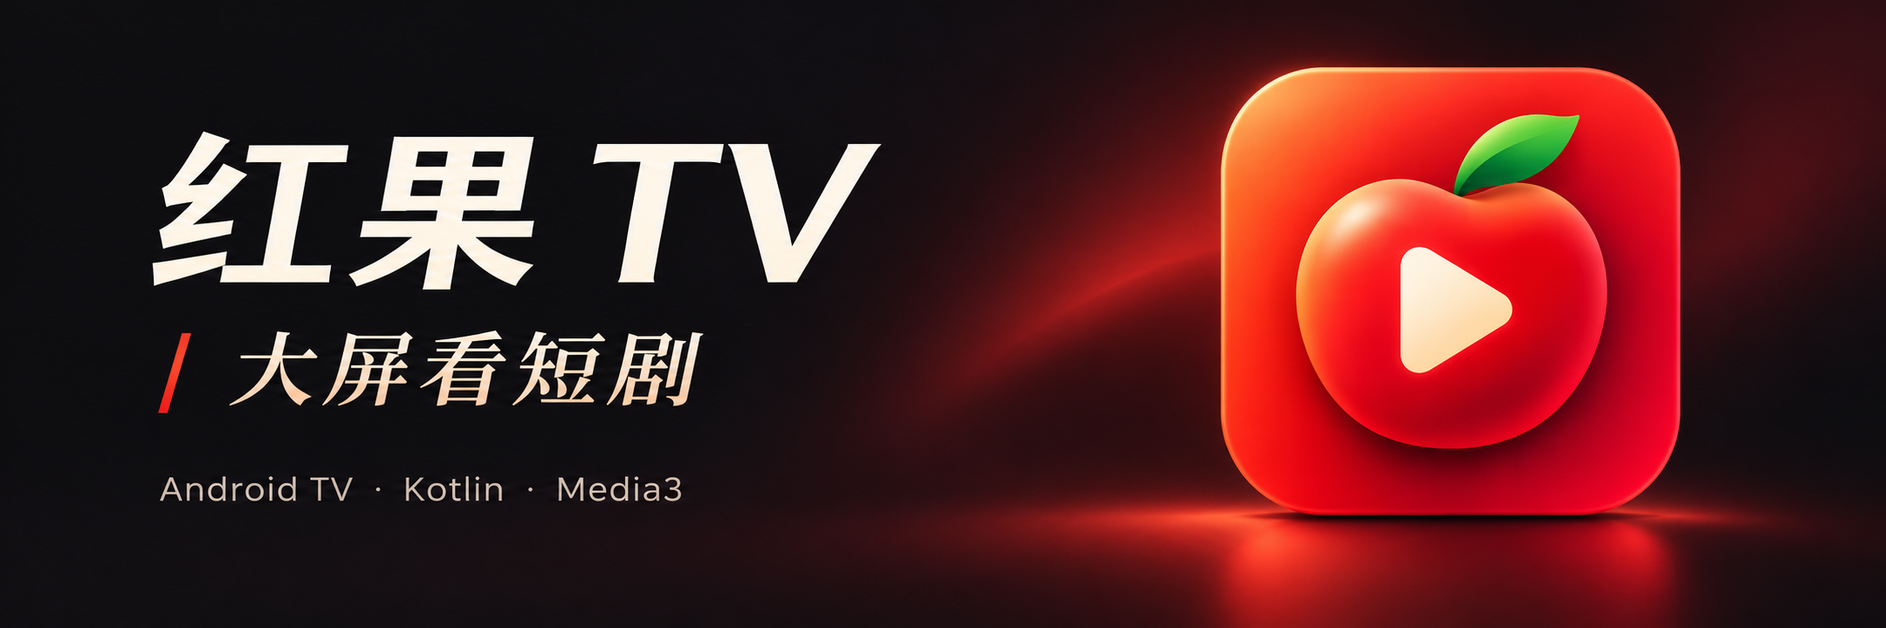
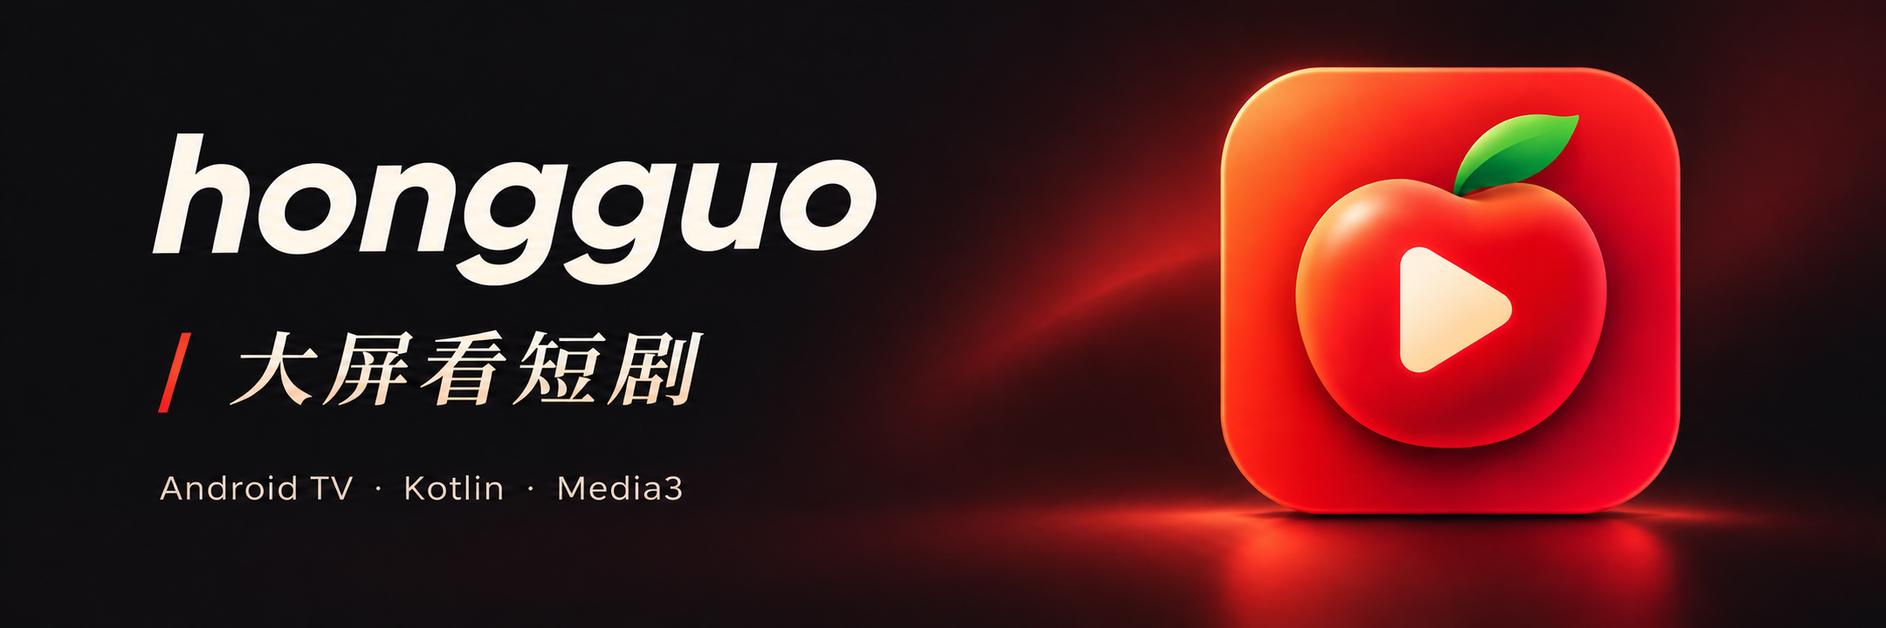
统一公开文档与展示图片的hongguo名称

diff --git a/kotlin-tv/README.md b/kotlin-tv/README.md
@@ -1,10 +1,10 @@
-# 红果 TV 原生独立版
+# hongguo 原生独立版
 
 这是独立的 **Kotlin + Android 原生 View + Media3** 工程，最低 Android 8.0 / API 26。安装一个 APK，联网后可直接浏览和播放，无需部署 Node、Docker 或填写服务器地址。
 
 [中文安装与使用指南](../docs/INSTALL.zh-CN.md) · [兼容性说明](../docs/COMPATIBILITY.zh-CN.md) · [界面截图](../README.md#界面展示)
 
-- 应用名称：红果 TV
+- 项目展示名称：hongguo；已发布 APK 的系统显示名称可能不同。
 - 个人分发包名：`com.hongguotv.nativeapp.playbackfix`，沿用当前测试设备数据。历史正式包 `com.hongguotv.nativeapp` 与旧 `com.hongguotv` 独立。
 - 收藏和历史独立保存在本机，不自动迁移旧版数据。
 - APK 不含 JNI 库，可由 Android 在 ARM32、ARM64、x86、x86_64 上运行；视频解码能力依赖设备。
@@ -69,7 +69,7 @@
 
 ### 本地测试版 0.9.1
 
-- 沿用播放接口修复及红果 TV 图标；逐档隔离损坏资源，按设备解码能力选流，解码失败仅进行一次兼容资源切换。
+- 沿用播放接口修复及 hongguo 图标；逐档隔离损坏资源，按设备解码能力选流，解码失败仅进行一次兼容资源切换。
 - 临时 720P 重试仅作用于本集，续播按分集 ID 保留位置；修复超过 2 GiB 的视频读取长度溢出。
 - 手机输入服务绑定选定地址并限制请求总时长；坏封面验证后重新获取，保存失败显示提示和重试入口。
 - 开发包隔离正式更新渠道及安装权限，采用独立包名和开发签名。真机安装及运行结果以本地交付记录为准。
@@ -117,7 +117,7 @@
 ### 0.5.0 新增
 
 - 定时停止：播放菜单选择 15 / 30 / 60 / 90 分钟后停止，或本集 / 再播完 3 / 5 集后停止。到点暂停、保存进度并取消自动重试，片尾先判断定时再自动连播。分钟按实际经过时间计时（包含暂停），集数在片尾计数，手动切集不扣次数。仅本次观看有效，退出播放器或切到后台会取消。
-- 手机备份与恢复：设置中扫码，用同一局域网内的手机浏览器下载 JSON，或上传已有备份。电视预览并确认后才合并收藏、观看位置、已看状态及搜索历史；已有收藏优先，观看位置以较新记录为准。默认保留电视设置，可勾选恢复备份内的清晰度、倍速、自动连播、内容类型与画面模式。收藏最多 500 部、历史最近 200 条、搜索 20 条，文件最多 2 MB。它用于本原生版设备之间迁移，与红果账号无关。
+- 手机备份与恢复：设置中扫码，用同一局域网内的手机浏览器下载 JSON，或上传已有备份。电视预览并确认后才合并收藏、观看位置、已看状态及搜索历史；已有收藏优先，观看位置以较新记录为准。默认保留电视设置，可勾选恢复备份内的清晰度、倍速、自动连播、内容类型与画面模式。收藏最多 500 部、历史最近 200 条、搜索 20 条，文件最多 2 MB。它用于本原生版设备之间迁移，与 hongguo 账号无关。
 - 全局画面模式：完整画面 / 等比铺满 / 拉伸铺满，播放中立即切换并保存；完整画面为默认。等比铺满可能裁切字幕，拉伸会改变比例，选择时有说明。
 - 系统媒体控制：前台播放时提供剧名、集数、时长和状态，接受系统播放 / 暂停 / 上下集 / 定位 / 停止；退出或进入后台撤销媒体会话。加载视频期间暂停，以及选集面板中收到暂停，都不会在后续加载或关闭弹窗后误播放。
 
@@ -148,7 +148,7 @@
 
 正式版使用同一发布签名，可覆盖安装 0.2.0 / 0.2.1 并保留收藏、观看记录与设置。Debug APK 使用开发签名，不能覆盖不同签名的正式安装包。
 
-**红果账号同步尚未实现**：你使用抖音账号登录红果，仍需要可验证的红果授权、账号映射和收藏/进度读写接口。当前收藏与观看记录继续保存在本机。调查依据和接入条件见 [账号同步调查](../docs/ACCOUNT_SYNC.md)。应用内二维码均不是红果登录入口。
+**hongguo 账号同步尚未实现**：你使用抖音账号登录 hongguo，仍需要可验证的 hongguo 授权、账号映射和收藏/进度读写接口。当前收藏与观看记录继续保存在本机。调查依据和接入条件见 [账号同步调查](../docs/ACCOUNT_SYNC.md)。应用内二维码均不是 hongguo 登录入口。
 
 本版交付与复测见 [0.3.0 交付记录](RELEASE_0.3.0.md)。
 
@@ -162,7 +162,7 @@
 ## 使用
 
 1. 从[本仓库 Releases](https://github.com/BeatsAD/hongguoTV/releases/latest) 下载个人分发 APK，首次拷贝到电视安装，或通过 `adb install -r APK文件路径` 覆盖安装。同包名、同签名且版本更低的安装可保留数据升级；之后在设置 → 版本与更新中完成更新。
-2. 在电视应用列表打开「红果 TV」，进入首页或搜索。
+2. 安装后从电视应用列表打开客户端，进入首页或搜索。
 3. 首页续播和最近观看确认即播放；发现新剧时确认进入详情，选择开始观看。设置中可选择 480P / 720P / 1080P 上限和是否自动连播。
 
 播放中：确认键暂停/播放；左右跳转 10 秒，长按连续跳转；向下直接打开选集，向上或菜单键打开播放、上下集、倍速等更多操作。返回键先关闭选集或收起进度条与菜单，再退出播放；从列表直接续播时回原列表，从详情开始播放时回详情。列表恢复原卡片和页码。

diff --git a/docs/research/2026-09-21-hongguo-open-source.md b/docs/research/2026-09-21-hongguo-open-source.md
@@ -1,25 +1,25 @@
-# 红果接口开源项目调研
+# hongguo 接口开源项目调研
 
 调研日期：2026-09-21。目标：为 Android TV 客户端寻找现成的搜索、剧集详情与播放接口实现。
 
 ## 结论与验证范围
 
-找到了直接请求红果/番茄平台域名的公开源码，可以作为接口研究起点。优先验证 `woshishiq1/drpys` 的 `红果果[短].js` 和 `zhenyong97/hongguo-downloader` 的 `src/native/hongguo.js`。
+找到了直接请求 hongguo/番茄平台域名的公开源码，可以作为接口研究起点。优先验证 `woshishiq1/drpys` 的 hongguo 内容脚本（见下方链接）和 `zhenyong97/hongguo-downloader` 的 `src/native/hongguo.js`。
 
-本次通过 GitHub API 核对仓库目录、关键源码、许可证元数据和关键文件最近提交；未运行下载器、签名或视频处理代码，未登录红果，也未验证真实视频播放。下列“实现”均指源码中存在对应逻辑，不代表接口目前调用成功或长期稳定。
+本次通过 GitHub API 核对仓库目录、关键源码、许可证元数据和关键文件最近提交；未运行下载器、签名或视频处理代码，未登录 hongguo，也未验证真实视频播放。下列“实现”均指源码中存在对应逻辑，不代表接口目前调用成功或长期稳定。
 
 ## 主要候选
 
 ### 1. woshishiq1/drpys：优先参考 TV 源的完整调用流程
 
 - [仓库](https://github.com/woshishiq1/drpys)
-- [关键源码：红果果[短].js](https://github.com/woshishiq1/drpys/blob/22261adfa31435e3b3ef5a730b8a2a75bcaf1715/spider/js/%E7%BA%A2%E6%9E%9C%E6%9E%9C%5B%E7%9F%AD%5D.js)
+- [关键源码：hongguo 内容脚本](https://github.com/woshishiq1/drpys/blob/22261adfa31435e3b3ef5a730b8a2a75bcaf1715/spider/js/%E7%BA%A2%E6%9E%9C%E6%9E%9C%5B%E7%9F%AD%5D.js)
 - 关键文件最近提交：2026-09-14；GitHub 识别的仓库许可证：GPL-3.0。
 - 官网数据用于分类、榜单和详情；App 搜索失败时回退官网搜索。
 - 包含视频信息请求、请求签名、清晰度选择及流式播放代理逻辑，依赖 Node 的 crypto、Buffer、axios 和 drpys 运行时。
 - 核心入口：`appSearchPage()`、`requestVideoModel()`、`fetchVideoInfo()`，以及规则对象中的“二级”“搜索”“lazy”“proxy_rule”。
 - 源码存在固定设备参数；其有效性和运行时依赖需要实测。
-- 注意区别：同仓库的 `红果短剧[短].js` 另依赖本地 `hongguo-bridge` 服务，不能只复制该文件就认为播放能力完整。`红果果[短].js` 则将相应处理逻辑放在源文件内。
+- 注意区别：同仓库的另一桥接脚本（文件名 URL 编码为 `%E7%BA%A2%E6%9E%9C%E7%9F%AD%E5%89%A7%5B%E7%9F%AD%5D.js`）另依赖本地 `hongguo-bridge` 服务，不能只复制该文件就认为播放能力完整。上方关键源码链接中的内容脚本则将相应处理逻辑放在源文件内。
 - 对本项目的价值：优先验证搜索 → 详情 → 选集 → 播放的调用顺序；Android 遥控器界面需要另做。
 
 ### 2. zhenyong97/hongguo-downloader：接口代码集中，便于阅读
@@ -62,13 +62,13 @@
 | [dawei233/hongguo-monorepo](https://github.com/dawei233/hongguo-monorepo) | PC、Android、NAS 多端方案；`nas-backend/hongguo_core.py` 包含搜索、详情、视频信息请求，签名依赖随仓库提供的 liushen 模块；README 表明 Android 端依赖局域网 NAS 后端。GitHub 未识别到许可证。 |
 | [gybeyond1/hongguo-dl](https://github.com/gybeyond1/hongguo-dl) | `docker/hongguo_core.py` 存在分集和视频信息请求，使用与 zhenyong97 项目相近的预加载接口及固定设备参数。GitHub 未识别到许可证。 |
 | [huangxd-/danmu_api](https://github.com/huangxd-/danmu_api/blob/main/danmu_api/sources/hongguo.js) | 搜索、分集与弹幕请求可参考；其产品目标是弹幕服务，不是完整视频播放客户端。GitHub 识别许可证为 AGPL-3.0。 |
-| [ucmao/media-parser](https://github.com/ucmao/media-parser/blob/main/src/parsers/fanqie_parser.py) | 红果模块解析分享/推广页的 HTML，提取视频、封面等字段；不等于提供完整搜索和选集能力。GitHub 识别许可证为 MIT。 |
-| [zhangbaio/hongguo-downloader](https://github.com/zhangbaio/hongguo-downloader/blob/main/core/api_client.py) | 客户端调用 `orz.icic.icu` 第三方服务，部分请求传入 key 和 machine_id；没有因此获得红果平台接口的独立实现。 |
+| [ucmao/media-parser](https://github.com/ucmao/media-parser/blob/main/src/parsers/fanqie_parser.py) | hongguo 模块解析分享/推广页的 HTML，提取视频、封面等字段；不等于提供完整搜索和选集能力。GitHub 识别许可证为 MIT。 |
+| [zhangbaio/hongguo-downloader](https://github.com/zhangbaio/hongguo-downloader/blob/main/core/api_client.py) | 客户端调用 `orz.icic.icu` 第三方服务，部分请求传入 key 和 machine_id；没有因此获得 hongguo 平台接口的独立实现。 |
 | [Erlmo/shortplay](https://github.com/Erlmo/shortplay) | Flutter 播放器；README 明确说明相关签名/密钥算法未开源，需要另外准备接口，不能单靠这个仓库解决内容接入。 |
 
 ## 源码中出现的调用路径
 
-以下为源码中观察到的路径，不是红果官方开放 API 文档，也不是已验证可用的请求示例。
+以下为源码中观察到的路径，不是 hongguo 官方开放 API 文档，也不是已验证可用的请求示例。
 
 | 用途 | 路径 | 证据 |
 | --- | --- | --- |

diff --git a/docs/ACCOUNT_SYNC.md b/docs/ACCOUNT_SYNC.md
@@ -1,23 +1,23 @@
-# 红果账号同步接入调查（2026-09-22）
+# hongguo 账号同步接入调查（2026-09-22）
 
-用户目标：用本人抖音账号登录红果，在电视端同步红果收藏、观看历史及续播位置。保持用户只安装 APK、无需自行部署服务。
+用户目标：用本人抖音账号登录 hongguo，在电视端同步 hongguo 收藏、观看历史及续播位置。保持用户只安装 APK、无需自行部署服务。
 
 ## 当前结论
 
-本轮没有实现红果登录或云端同步。缺少经过验证的红果用户授权、账号映射、收藏和进度读写接口；普通抖音 OAuth 授权不能作为这些权限已获授予的证据。不得将头像或昵称获取成功标记为“红果已登录/已同步”。
+本轮没有实现 hongguo 登录或云端同步。缺少经过验证的 hongguo 用户授权、账号映射、收藏和进度读写接口；普通抖音 OAuth 授权不能作为这些权限已获授予的证据。不得将头像或昵称获取成功标记为“hongguo 已登录/已同步”。
 
 - 当前客户端 `ContentRepository` 使用游客内容请求，搜索参数 `user_is_login=0`；`Library` 的收藏和进度在本机 SharedPreferences，没有平台账户会话。
-- 检查红果官网首页、首页直接引用的三个业务脚本，未找到登录入口或账户同步实现。范围仅限这些公开资源，不能据此推断平台没有内部或合作接口。
-- [抖音 SDK 概述](https://open.douyin.com/platform/resource/docs/develop/summarize/sdk) 描述抖音授权和获取公开用户资料；更多数据能力需对应申请。未找到明确开放红果收藏和观看进度的 scope。
-- [抖音网站 OAuth 文档](https://open.douyin.com/platform/resource/docs/develop/permission/web/oauth2) 要求注册开发者配置 ClientKey / ClientSecret，通过授权码交换令牌，并提示应用密钥放在客户端不安全。项目当前未配置该应用的平台注册凭据，不能挪用红果官方 App 的身份和应用密钥来声称已授权。
+- 检查 hongguo 官网首页、首页直接引用的三个业务脚本，未找到登录入口或账户同步实现。范围仅限这些公开资源，不能据此推断平台没有内部或合作接口。
+- [抖音 SDK 概述](https://open.douyin.com/platform/resource/docs/develop/summarize/sdk) 描述抖音授权和获取公开用户资料；更多数据能力需对应申请。未找到明确开放 hongguo 收藏和观看进度的 scope。
+- [抖音网站 OAuth 文档](https://open.douyin.com/platform/resource/docs/develop/permission/web/oauth2) 要求注册开发者配置 ClientKey / ClientSecret，通过授权码交换令牌，并提示应用密钥放在客户端不安全。项目当前未配置该应用的平台注册凭据，不能挪用 hongguo 官方 App 的身份和应用密钥来声称已授权。
 - 本轮没有收集用户密码、验证码、Cookie 或令牌，没有登录或改动用户的平台收藏和进度。
 
 ## 接通所需证据
 
 1. 平台允许此应用使用的授权方式、ClientKey、应用包名/签名配置，以及是否必须有服务端保管应用密钥。只有可安全运行于客户端的授权流才能直接保持纯 APK；服务端必需时必须另行明确托管方案，不能将密钥塞入 APK。
-2. 抖音身份到红果账户的受支持映射及用户数据授权范围。
+2. 抖音身份到 hongguo 账户的受支持映射及用户数据授权范围。
 3. 收藏分页、历史与精确播放进度读取接口，含字段定义、权限错误及会话过期行为。
 4. 先完成本人真实账号只读验证，再接入收藏和进度写回。双端冲突按更新时间与明确的播放会话处理；不能简单取最大集数，避免覆盖用户重新观看较早集的意图。
 5. 退出、过期、换号测试；按平台账号隔离缓存，保留并区分既有本地游客记录，避免串号。
 
-账号功能依赖上述平台接入条件，不是只增加一个 UI 登录按钮即可交付。新版本中的“手机输入”二维码仅发送局域网搜索词；“版本与更新”二维码仅打开 GitHub Release 页面，都不是红果账号登录。
+账号功能依赖上述平台接入条件，不是只增加一个 UI 登录按钮即可交付。新版本中的“手机输入”二维码仅发送局域网搜索词；“版本与更新”二维码仅打开 GitHub Release 页面，都不是 hongguo 账号登录。

diff --git a/docs/INSTALL.zh-CN.md b/docs/INSTALL.zh-CN.md
@@ -6,7 +6,7 @@
 
 1. 在电脑或手机打开[最新 Release](https://github.com/BeatsAD/hongguoTV/releases/latest)，下载附件中以 `.apk` 结尾的文件。源码 ZIP、`update.json` 和 `SHA256SUMS` 都不是安装包。
 2. 通过 U 盘或电视支持的文件传输方式，把 APK 复制到电视。在文件管理器中打开它，按电视系统提示允许该文件管理器安装未知来源应用。
-3. 在应用列表打开「红果 TV」，连接可用网络，进入首页、分类、榜单或搜索。APK 不要求登录红果或抖音账号。
+3. 安装后从电视应用列表打开客户端，连接可用网络，进入首页、分类、榜单或搜索。APK 不要求登录 hongguo 或抖音账号。
 
 如果你使用已授权连接的 ADB，也可以在电脑执行：
 
@@ -22,7 +22,7 @@ adb -s DEVICE_SERIAL install -r /absolute/path/to/downloaded.apk
 
 本渠道包名为 `com.hongguotv.nativeapp.playbackfix`。同包名、同签名且构建号更高时，可覆盖升级并保留本机片单、进度与设置。
 
-- 已安装本渠道分发版：进入「设置 → 版本与更新」，检查和下载新版，选择安装，再确认系统安装提示。首次需要允许「红果 TV」安装未知来源应用。
+- 已安装本渠道分发版：进入「设置 → 版本与更新」，检查和下载新版，选择安装，再确认系统安装提示。首次需要允许本应用安装未知来源应用。
 - 早期不带在线更新的开发版：先从本仓库手动下载并覆盖安装一次，再使用应用内更新。
 - 上游、历史包或自行构建：先核对包名、签名与构建号。包名不同可能会并存，数据不会自动迁移；签名不同不能直接覆盖。
 
@@ -52,7 +52,7 @@ adb -s DEVICE_SERIAL install -r /absolute/path/to/downloaded.apk
 - 备份：下载本机记录的 JSON 文件，或选择已有备份上传；恢复前需要在电视查看并确认。
 - 搜索页手机输入会话最长 15 分钟，备份会话最长 5 分钟。离开相应页面、关闭窗口或应用进入后台后失效；过期后重新打开生成二维码。
 
-这些二维码不是红果或抖音登录入口，当前没有平台账号登录或云端同步。
+这些二维码不是 hongguo 或抖音登录入口，当前没有平台账号登录或云端同步。
 
 ## 常见问题
 
@@ -63,7 +63,7 @@ adb -s DEVICE_SERIAL install -r /absolute/path/to/downloaded.apk
 | 搜索、分类或播放失败 | 记录错误原文，尝试其他剧或稍后重试；第三方接口变化可能需要新版 APK |
 | 有声音但黑屏、解码失败 | 尝试更低清晰度；仍失败时记录电视型号、系统版本与诊断信息 |
 | 手机无法连接 | 确认同一局域网，检查访客网络或设备隔离，重新生成二维码 |
-| 收藏或进度没有同步 | 当前记录在本机，不与红果 / 抖音账号同步；设备迁移使用备份与恢复 |
+| 收藏或进度没有同步 | 当前记录在本机，不与 hongguo / 抖音账号同步；设备迁移使用备份与恢复 |
 
 普通问题使用 [Bug 模板](https://github.com/BeatsAD/hongguoTV/issues/new?template=bug_report.yml)，附版本、设备、步骤及脱敏后的诊断信息。安全问题请使用[私密报告](https://github.com/BeatsAD/hongguoTV/security/advisories/new)。
 

diff --git a/docs/assets/README.md b/docs/assets/README.md
@@ -2,25 +2,25 @@
 
 ## 封面
 
-`hongguo-tv-cover.png` 于 2026-11-11 使用内置 imagegen 生成，以本项目现有红果播放图标为品牌参考，采用深色背景、红色柔光及三比一横幅构图。封面文案为“红果 TV”“大屏看短剧”“Android TV · Kotlin · Media3”。它是宣传插画，不是应用截图，也不暗示与内容平台存在官方关系。
+`hongguo-tv-cover.png` 于 2026-11-11 使用内置 imagegen 生成，以本项目现有 hongguo 播放图标为品牌参考，采用深色背景、红色柔光及三比一横幅构图。封面文案为“hongguo”“大屏看短剧”“Android TV · Kotlin · Media3”。它是宣传插画，不是应用截图，也不暗示与内容平台存在官方关系。
 
-## 真实界面截图
+## 界面展示图
 
-以下图片均保持原始 1920 × 1080 像素，未重绘界面：
+以下展示图以原始 1920 × 1080 像素截图为参考，通过内置 imagegen 统一使用 `hongguo` 名称。AI 编辑可能重绘图像细节，因此它们是展示示意图，不是原始截图，不能用于像素对照；原始截图仍作为本地验证记录保留：
 
 - `screenshots/home-0.10.5-build10003.png`：首页与剧架。
 - `screenshots/updates-0.10.5-build10003.png`：升级完成后的版本检查界面。
 
-截图来自 2026-11-11 的 Android TV API 31 / ARM64 模拟器，应用版本 `0.10.5+3-playbackfix / 10003`，对应源码 `0eefcc1658957fbe46fd213435b15fe39ecef781`。图中的片单内容属于当时界面，随第三方接口与本机记录变化。截图只用于展示该版本实际界面，不代表实体电视、所有内容或长期稳定性验收。
+原始截图来自 2026-11-11 的 Android TV API 31 / ARM64 模拟器，应用版本 `0.10.5+3-playbackfix / 10003`，对应源码 `0eefcc1658957fbe46fd213435b15fe39ecef781`。图中的片单内容属于当时界面，随第三方接口与本机记录变化。名称替换不代表已发布 APK 的系统显示名已更改，也不代表实体电视、所有内容或长期稳定性验收。
 
 截图中的第三方海报、剧名及其他内容权利仍归相应权利人；独立社区模板的 MIT 许可不适用于这些素材。
 
 ## 文件校验
 
-| 文件 | 字节数 | SHA-256 |
-| --- | ---: | --- |
[3 lines of base64/hex data omitted]
+| 文件 | 尺寸 | 字节数 | SHA-256 |
+| --- | --- | ---: | --- |
[3 lines of base64/hex data omitted]
 
 [返回首页](../../README.md) · [兼容性说明](../COMPATIBILITY.zh-CN.md)

diff --git a/kotlin-tv/RELEASE_0.5.0.md b/kotlin-tv/RELEASE_0.5.0.md
@@ -9,7 +9,7 @@
 - 全局画面模式：完整画面（默认）、等比铺满、拉伸铺满，播放中立即切换并持久化，选择时说明裁切字幕或改变比例的影响。
 - 系统媒体控制：前台播放器发布剧名、集数、时长、位置和状态，响应播放、暂停、上下集、定位和停止。后台会话停用，不增加后台播放服务。视频加载期间收到的暂停不会被后续加载覆盖；选集面板中暂停后，取消面板不会误播放，播放按钮同步显示实际状态。
 
-备份 HTTP 窗口使用随机 128 位地址，最长 5 分钟；检查 Host、Origin、路径、请求大小和 JSON 结构，限制连接读取时长，关闭窗口/进入后台终止监听和在途连接。每个二维码仅下载一次，成功上传后关闭会话，仍需电视确认。文件不包含平台登录凭据，也不提供红果账号同步。
+备份 HTTP 窗口使用随机 128 位地址，最长 5 分钟；检查 Host、Origin、路径、请求大小和 JSON 结构，限制连接读取时长，关闭窗口/进入后台终止监听和在途连接。每个二维码仅下载一次，成功上传后关闭会话，仍需电视确认。文件不包含平台登录凭据，也不提供 hongguo 账号同步。
 
 ## 验证
 
@@ -20,7 +20,7 @@
 - 回归发现并修正 JVM JSON 与 Android JSON 浮点重载差异；未将早期导出失败当作通过证据。验证包记录各批截图对应的 APK 哈希，最终 APK 复测播放、定时和导入导出主链路。另修复了短暂退后台后定时按钮仍显示旧倒计时的问题。
 - 保存的 UI XML 可运行 `python3 kotlin-tv/tools/verify-comfort-evidence.py <tv目录>` 复核；该脚本校验记录的证据，不是自动驱动 UI 的测试。
 
-Android 8.0 实体电视解码、音频、实体蓝牙遥控器及长期稳定性仍需实机验收。红果/抖音授权与平台收藏进度同步仍未接通；本轮备份是本机数据迁移。
+Android 8.0 实体电视解码、音频、实体蓝牙遥控器及长期稳定性仍需实机验收。hongguo/抖音授权与平台收藏进度同步仍未接通；本轮备份是本机数据迁移。
 
 ## 交付
 

diff --git a/kotlin-tv/RELEASE_0.4.0.md b/kotlin-tv/RELEASE_0.4.0.md
@@ -7,7 +7,7 @@
 - 播放故障恢复：临时网络/资源读取错误最多自动重试 3 次，间隔 1 / 2.5 / 5 秒；没有可用网络时等待网络恢复，不消耗次数。重新请求播放地址，保留集数、位置和播放/暂停意图。提供立即重试、停止自动重试、720P 与返回选集；离开前台取消自动重试。解码错误不反复发起网络重试，并启用设备可用解码器初始化回退。
 - 播放中选集：侧边面板默认聚焦当前集，每组 20 集，支持数字定位、首末组禁用和方向键导航；确认新集才换集，取消恢复原播放状态和焦点。打开面板临时暂停，不退出播放器。
 - 首页一键续播：显示最近 3 部没有手动标记整剧已看的剧；按剧集 ID 匹配最新列表，已播完当前集则进入下一集。源列表移除原集时从首集开始，已到最后一集时从末集开头开始。推荐加载不阻塞本机续播入口。
-- 收藏剧更新提示：前台启动检查超过一小时未检查的收藏，可手动刷新。首次建立基准，此后显示新增集数与当前总集数；进入详情后确认已查看。检查失败保留旧结果，串行请求，单请求 12 秒，连续 3 部失败停止本轮检查。应用退后台后不再启动后续检查；已在途请求可能运行到超时。无后台推送，不是红果账号同步。
+- 收藏剧更新提示：前台启动检查超过一小时未检查的收藏，可手动刷新。首次建立基准，此后显示新增集数与当前总集数；进入详情后确认已查看。检查失败保留旧结果，串行请求，单请求 12 秒，连续 3 部失败停止本轮检查。应用退后台后不再启动后续检查；已在途请求可能运行到超时。无后台推送，不是 hongguo 账号同步。
 - 全局默认清晰度与倍速：设置提供 480P / 720P / 1080P、0.75 / 1 / 1.25 / 1.5 / 1.75 / 2×，沿用旧设置并持久化。清晰度按片源可用档位选择；播放中修改会保存为全局默认，切清晰度保留位置与暂停状态。
 
 ## 验证与边界

diff --git a/docs/REACT_NATIVE_LEGACY.md b/docs/REACT_NATIVE_LEGACY.md
@@ -2,7 +2,7 @@
 
 以下保留早期 v0.1.1 的使用、部署和构建说明，仅适用于根目录的 React Native / Node 工程。当前 Kotlin 原生版安装一个 APK 即可使用，无需部署这些服务；请先阅读[仓库首页](../README.md)。下文的“当前功能”“首版”和版本号均指历史版本，所有命令均从仓库根目录执行。
 
-用于自家电视的非官方红果短剧客户端。首版采用 **React Native TV + TypeScript**，最低 Android 8.0（API 26）。电视负责界面和播放，独立 Node 服务负责内容接入与媒体分段处理，便于后续其他平台复用。
+用于自家电视的非官方 hongguo 短剧客户端。首版采用 **React Native TV + TypeScript**，最低 Android 8.0（API 26）。电视负责界面和播放，独立 Node 服务负责内容接入与媒体分段处理，便于后续其他平台复用。
 
 **下载：[v0.1.1 APK、源码及 Docker 部署包](https://github.com/N3urda/hongguoTV/releases/tag/v0.1.1)** · [Docker 部署指南](DOCKER.md)
 
@@ -84,6 +84,6 @@ npm run build:android
 
 ## 来源与许可证
 
-项目与红果官方无关联。内容接口为非官方实现，平台变化可能导致失效；错误会明确显示，不会替换为虚假内容。
+项目与 hongguo 官方无关联。内容接口为非官方实现，平台变化可能导致失效；错误会明确显示，不会替换为虚假内容。
 
 Node 服务使用固定提交的 `drpys` 源，保留原文件、GPL-3.0 许可证和来源记录，见 [第三方说明](../server/vendor/NOTICE.md)。Android / tvOS 工程骨架源于 MIT 许可的 RN TV 模板。本项目代码按 [GPL-3.0](../LICENSE) 提供，第三方部分保留各自许可。

diff --git a/kotlin-tv/DESIGN.md b/kotlin-tv/DESIGN.md
@@ -1,6 +1,6 @@
 ---
 version: alpha
-name: 红果 TV 全应用设计方案 V2
+name: hongguo 全应用设计方案 V2
 description: 2026-10-28，原生V2设计与验收契约；实施验证记录见本地验证报告
 colors:
   primary: "#BB3D5D"
@@ -150,7 +150,7 @@ components:
     typography: "{typography.control}"
 ---
 
-# 红果 TV 全应用设计方案 V2
+# hongguo 全应用设计方案 V2
 
 ## Overview
 
@@ -360,4 +360,4 @@ components:
 
 禁止：当前集下划线、主色黑字、满屏红底、每个按钮都渐变、焦点闪烁、文字入口过小、单靠色彩区分状态、隐藏可操作区、靠修改设备密度适配、把生成图片标为真机截图、把现有未提交工作合并到本方案提交。
 
-参考：[Android TV焦点系统](https://developer.android.com/design/ui/tv/guides/styles/focus-system)、[按钮](https://developer.android.com/design/ui/tv/guides/components/buttons)、[导航](https://developer.android.com/training/tv/get-started/navigation)。官方规范提供原则；本方案的色值、尺寸、列数与状态表是红果TV的项目决策。
+参考：[Android TV焦点系统](https://developer.android.com/design/ui/tv/guides/styles/focus-system)、[按钮](https://developer.android.com/design/ui/tv/guides/components/buttons)、[导航](https://developer.android.com/training/tv/get-started/navigation)。官方规范提供原则；本方案的色值、尺寸、列数与状态表是 hongguo 的项目决策。

diff --git a/kotlin-tv/NOTICE.md b/kotlin-tv/NOTICE.md
@@ -2,7 +2,7 @@
 
 `core` 中内容请求签名、Spade URL / key 处理、MP4 CENC 处理是以下 GPL-3.0 源码的 Kotlin 移植：
 
-- drpys, `spider/js/红果果[短].js`
+- drpys, `spider/js/%E7%BA%A2%E6%9E%9C%E6%9E%9C%5B%E7%9F%AD%5D.js`（路径使用 URL 编码，仍指向原始来源文件）
 - https://github.com/woshishiq1/drpys/tree/22261adfa31435e3b3ef5a730b8a2a75bcaf1715
 - 本仓库对照源：`../server/vendor/hongguo.cjs`，取回于 2026-09-21。
 - 本版改动：完整 Kotlin 实现；签名只选择已验证的 hash branch 0；加密媒体通过 Media3 DataSource 直接读取；增加样本边界检查、子样本处理和 AVC 原始编码恢复。
@@ -21,7 +21,7 @@
 - org.json（仅 JVM 工具，APK 使用 Android 内置实现）：https://github.com/stleary/JSON-java — 公有领域声明
 - JUnit（仅测试）：https://github.com/junit-team/junit4 — EPL-1.0
 
-本地修复分支的应用图标与 TV banner 采用用户选定的 AI 生成红果设计，分别以 256×256 与 640×360 的 WebP 资源随包提供。这里的应用不是内容平台官方客户端。
+本地修复分支的应用图标与 TV banner 采用用户选定的 AI 生成 hongguo 设计，分别以 256×256 与 640×360 的 WebP 资源随包提供。这里的应用不是内容平台官方客户端。
 
 播放请求身份、请求头及内联视频列表解析参考 tsukiyo-zero/hongguoTV（GPL-3.0），提交
 `88c6238d4ee987f45eb134215e221df0b8634f55`：

diff --git a/docs/COMPATIBILITY.zh-CN.md b/docs/COMPATIBILITY.zh-CN.md
@@ -34,7 +34,7 @@
 
 - 当前源码已通过 `:core:test :app:testDebugUnitTest :app:lintDebug :app:assembleDebug`。个人分发流水线还执行签名构建与 APK 身份检查。
 - `0.10.5+3-playbackfix / 10003` 在 Android TV API 31 / ARM64 模拟器上完成系统覆盖升级、启动、版本检查及可导出业务数据对比。该次 GitHub 下载使用了测试环境的网络代理。
-- README 中的首页和更新截图来自该模拟器上的实际运行，属于界面展示；该轮升级验证没有新增视频首帧、换集、长时播放或实体电视验收。
+- README 中的首页和更新展示图以该模拟器上的实际截图为参考，经 AI 编辑统一使用 `hongguo` 名称，细节以实际应用为准；不能用于像素对照。该轮升级验证没有新增视频首帧、换集、长时播放或实体电视验收。
 - 既往开发版本有模拟器播放和部分电视测试记录，不能推导为当前分发包在所有设备通过。Android 8.0 真机、不同芯片解码与音频输出、特殊遥控器和长时稳定性仍需按设备验证。
 
 模拟器升级记录对应的公开版本为[构建 10003](https://github.com/BeatsAD/hongguoTV/releases/tag/kotlin-v0.10.5-build.10003)，自动化发布记录见[该次工作流](https://github.com/BeatsAD/hongguoTV/actions/runs/42954622658)。这些证据不能保证未来第三方接口、网络或内容持续可用。
